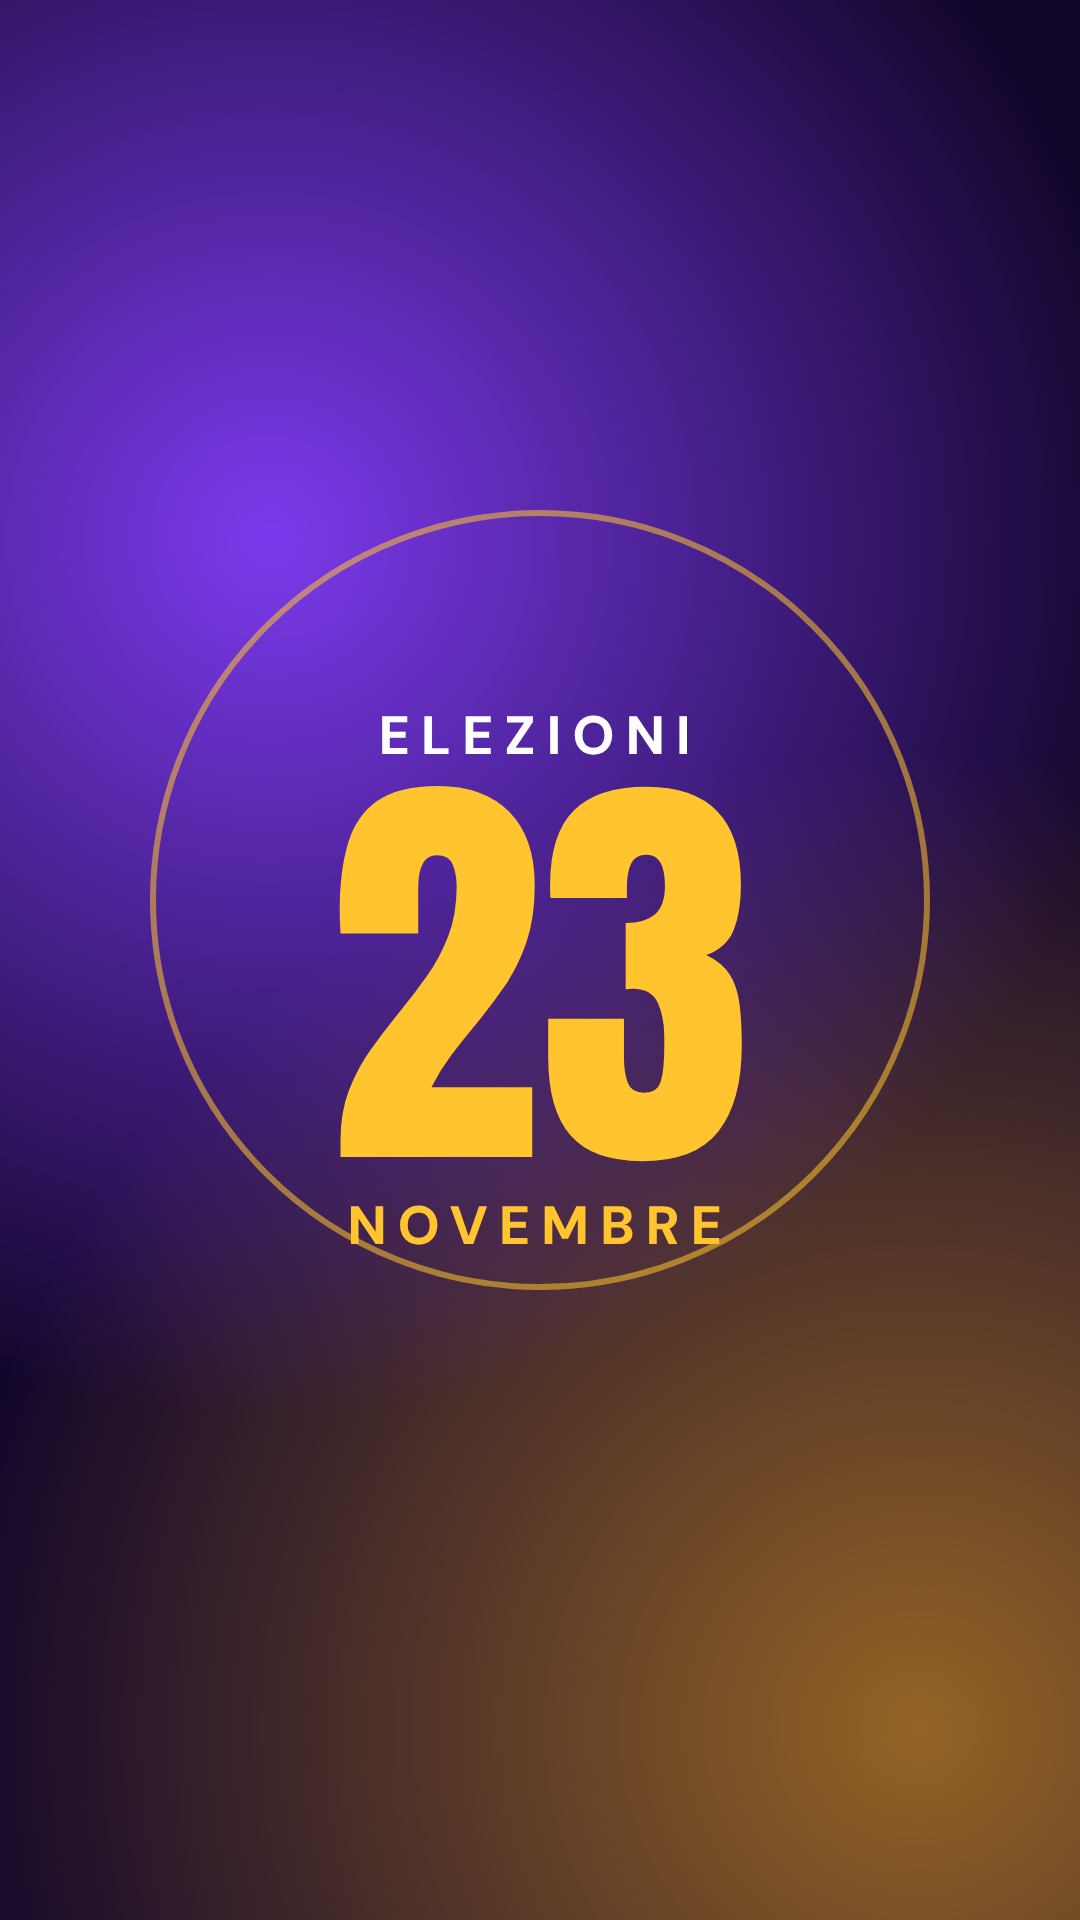
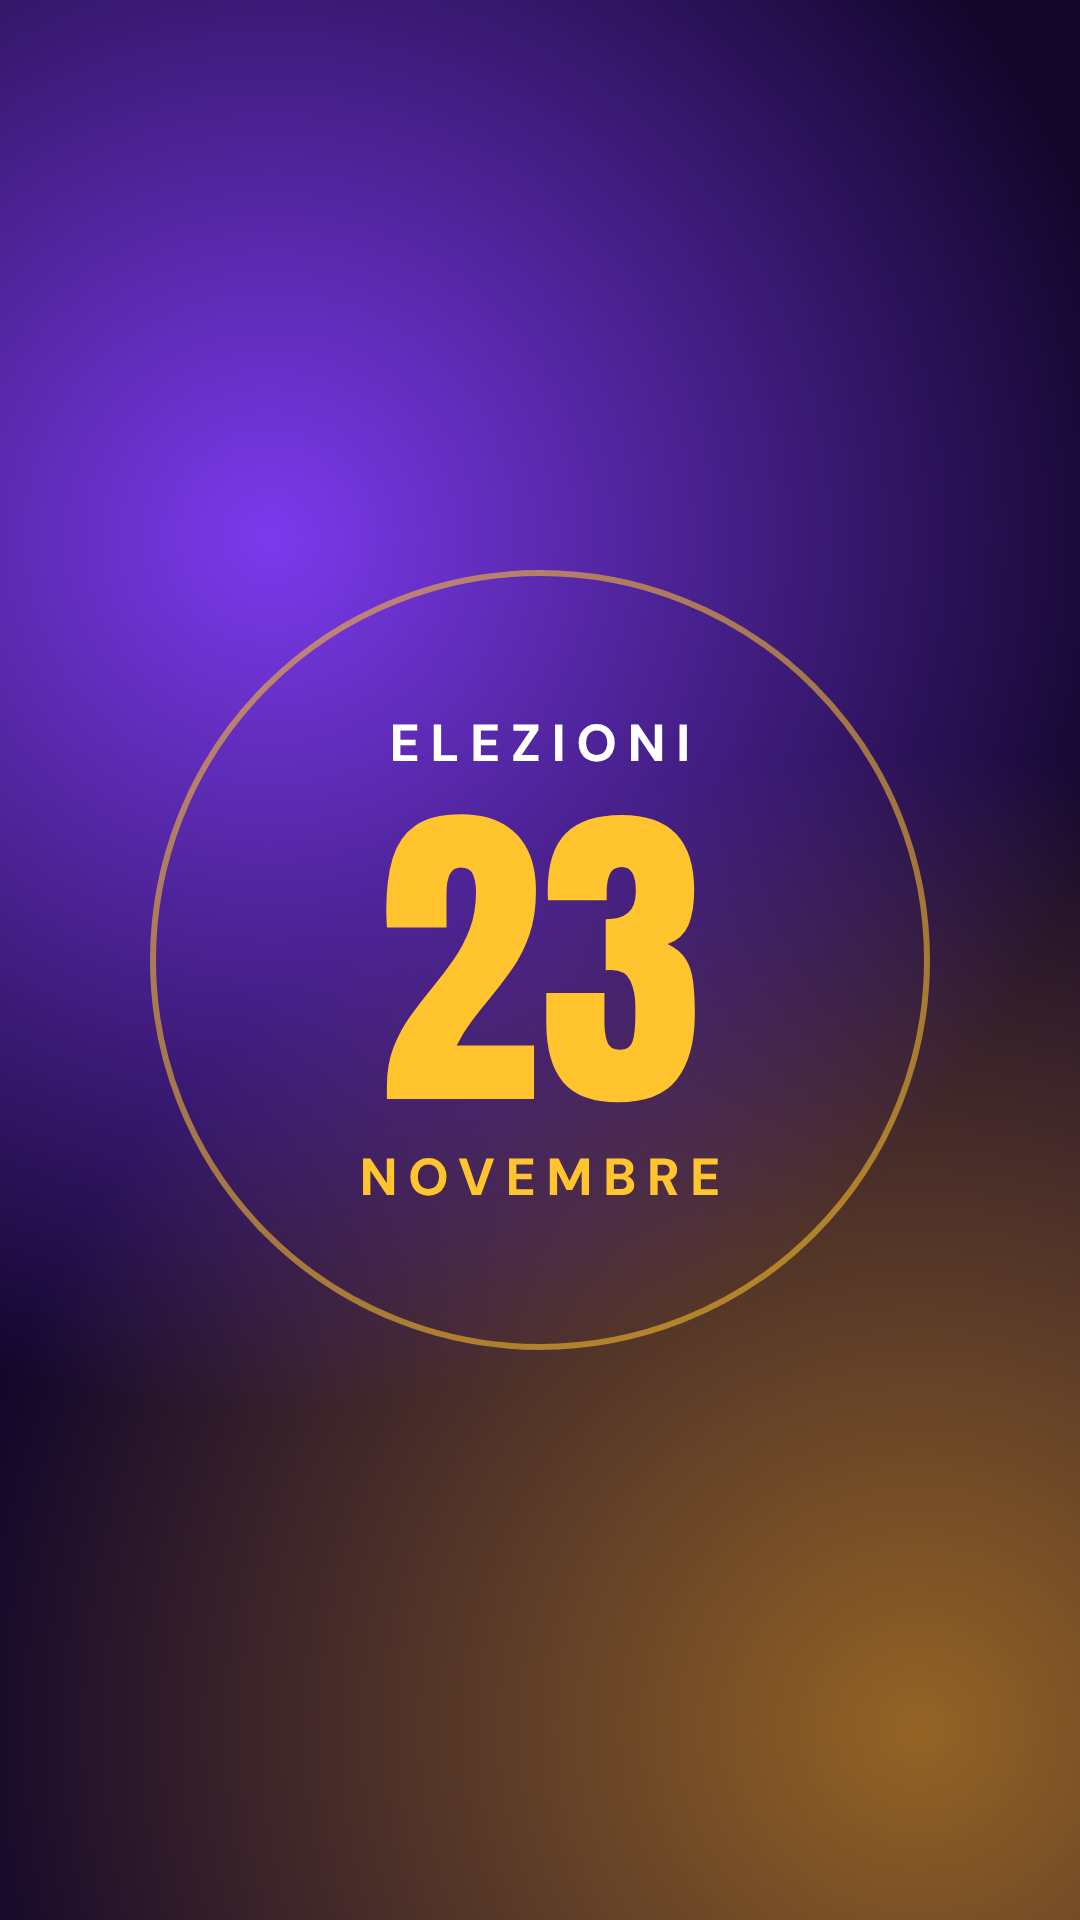
Copertine evidenza: tutto centrato nel cerchio (centro esatto e scritte più piccole)
Claude-Session: https://claude.ai/code/session_01R2EF8p8tCb9WtiTgwavMfk

Changed region(s): [[0.1222, 0.25, 0.8861, 0.7188], [0.4889, 0.4375, 0.5194, 0.4688]]

diff --git a/social/campagna/copertina-evidenza.html b/social/campagna/copertina-evidenza.html
@@ -4,12 +4,13 @@
 *{box-sizing:border-box;margin:0}body{background:#000}
 .c{position:relative;width:1080px;height:1920px;overflow:hidden;background:#12062b;margin-bottom:20px}
 .bg{position:absolute;inset:0;background:radial-gradient(circle at 25% 28%,#7c3aed 0,transparent 55%),radial-gradient(circle at 85% 90%,rgba(255,176,32,.55),transparent 50%),#12062b}
-.ring{position:absolute;left:150px;top:510px;width:780px;height:780px;border-radius:50%;border:6px solid rgba(255,196,46,.55)}
-.t{position:absolute;left:0;right:0;text-align:center;font-family:Anton,Impact,sans-serif;text-transform:uppercase;color:#ffc42e;line-height:1}
-.k{position:absolute;left:0;right:0;text-align:center;font:800 54px "DM Sans";letter-spacing:.2em;text-transform:uppercase;color:#fff}
+.ring{position:absolute;left:150px;top:570px;width:780px;height:780px;border-radius:50%;border:6px solid rgba(255,196,46,.55)}   /* centro esatto: (540, 960) */
+.blk{position:absolute;left:0;right:0;top:960px;transform:translateY(-50%);display:flex;flex-direction:column;align-items:center;gap:26px}
+.t{font-family:Anton,Impact,sans-serif;text-transform:uppercase;color:#ffc42e;line-height:1;white-space:nowrap}
+.k{font:800 52px/1 "DM Sans";letter-spacing:.2em;text-transform:uppercase;color:#fff;padding-left:.2em;white-space:nowrap}
 </style></head><body>
 <div class="c" id="a"><div class="bg"></div><div class="ring"></div>
- <div class="k" style="top:700px">Elezioni</div><div class="t" style="top:760px;font-size:430px">23</div><div class="k" style="top:1190px;color:#ffc42e">Novembre</div></div>
+ <div class="blk"><div class="k">Elezioni</div><div class="t" data-fit="330" style="font-size:330px">23</div><div class="k" style="color:#ffc42e">Novembre</div></div></div>
 <div class="c" id="b"><div class="bg"></div><div class="ring"></div>
- <div class="k" style="top:720px">Vota</div><div class="t" style="top:790px;font-size:330px">Mirai</div><div class="k" style="top:1130px;color:#ffc42e">23 novembre</div></div>
-<script>document.fonts.load('100px Anton').then(()=>document.fonts.ready).then(()=>{document.body.dataset.ready=1})</script></body></html>
+ <div class="blk"><div class="k">Vota</div><div class="t" data-fit="330" style="font-size:330px">Mirai</div><div class="k" style="color:#ffc42e">23 novembre</div></div></div>
+<script>document.fonts.load('100px Anton').then(()=>document.fonts.ready).then(()=>{document.querySelectorAll('[data-fit]').forEach(e=>{const w=e.getBoundingClientRect().width,max=560;if(w>max)e.style.fontSize=Math.floor(e.dataset.fit*max/w)+'px'});document.body.dataset.ready=1})</script></body></html>
